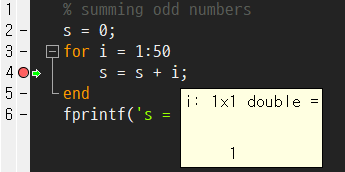
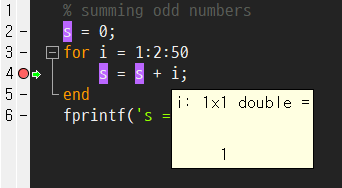
fix assign6

diff --git a/_posts/weeks/week10/assignment6/2021-05-07-assign6.md b/_posts/weeks/week10/assignment6/2021-05-07-assign6.md
@@ -32,7 +32,7 @@ toc_label: "Table of Contents"
 ```matlab
 % summing odd numbers
 s = 0;
-for i = 1:50
+for i = 1:2:50
     s = s + i;
 end
 ```
@@ -40,7 +40,7 @@ end
 
 ```
 >> sumodd
-s = 1275
+s = 625
 ```
 
 이제, 4번째 줄의 왼쪽 `-`표시를 누르거나, 해당 줄에 커서를 두고 `F12`를 눌러서 중단점을 설정해보세요.
@@ -73,7 +73,7 @@ ans =
 
 ans =
 
-     2     1
+     3     1
 
 ```
 
@@ -125,7 +125,7 @@ ans =
     *`F9` 결과*
     ```
     >> sumodd
-    s = 1275
+    s = 625
     ```
 
 3. *선택 영역*
@@ -136,12 +136,12 @@ ans =
     *`F9` 결과*
     ```
     >> sumodd
-    s = 1275
-    s = 1275
+    s = 625
+    s = 625
 
     s =
 
-        1275
+    625
     ```
 
 ## 연습문제
@@ -237,7 +237,7 @@ MATLAB's editor has the function to set breakpoints on its own. Write a simple s
 ```matlab
 % summing odd numbers
 s = 0;
-for i = 1:50
+for i = 1:2:50
     s = s + i;
 end
 ```
@@ -245,7 +245,7 @@ and we can run the current script by clicking the `Run` button on the editor tab
 
 ```
 >> sumodd
-s = 1275
+s = 625
 ```
 
 Now, try setting a breakpoint by pressing the left `-` sign on the 4th line, or by placing the cursor on that line and pressing `F12`.
@@ -278,7 +278,7 @@ We can re-run the stopped code by clicking the `Continue` button at the top or p
 
 ans =
 
-     2     1
+     3     1
 
 ```
 
@@ -330,7 +330,7 @@ You can run the selected area directly from the command window without specifyin
     *`F9` Results*
     ```
     >> sumodd
-    s = 1275
+    s = 625
     ```
 
 3. *Selection*
@@ -341,12 +341,12 @@ You can run the selected area directly from the command window without specifyin
     *`F9` Results*
     ```
     >> sumodd
-    s = 1275
-    s = 1275
+    s = 625
+    s = 625
 
     s =
 
-        1275
+        625
     ```
 
 ## Exercise
